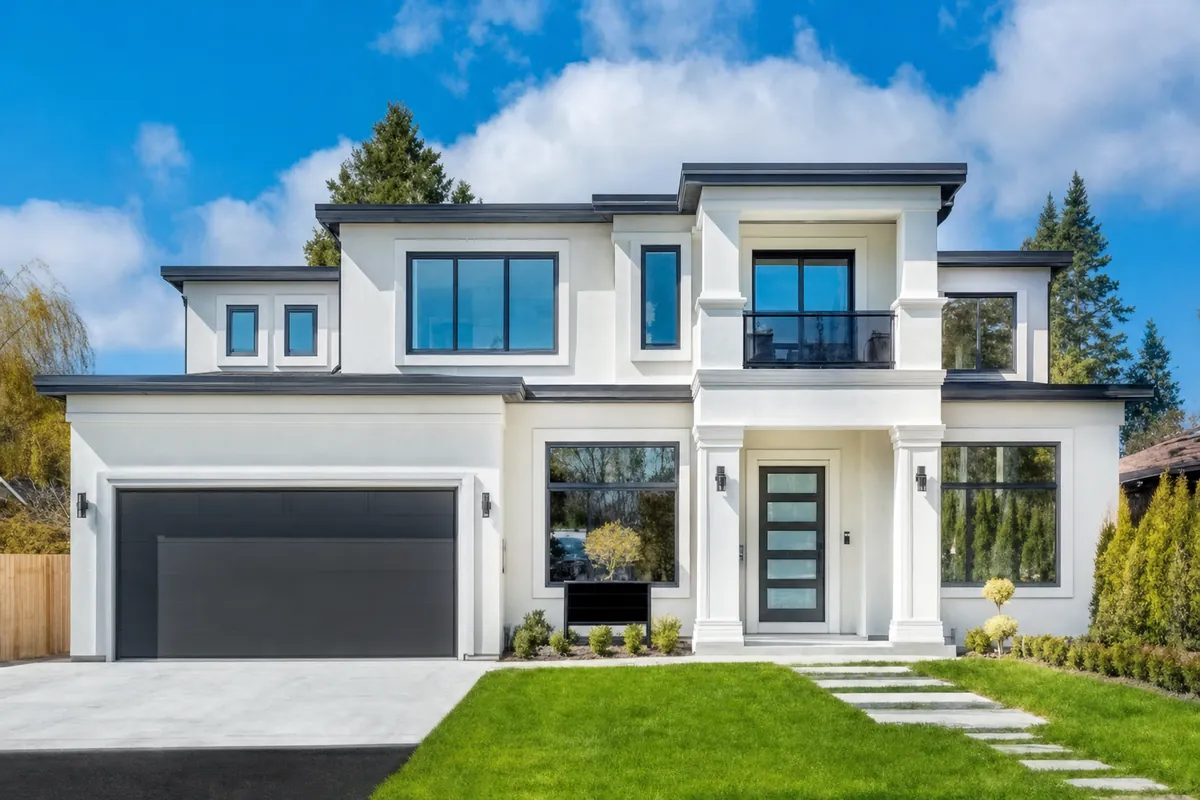
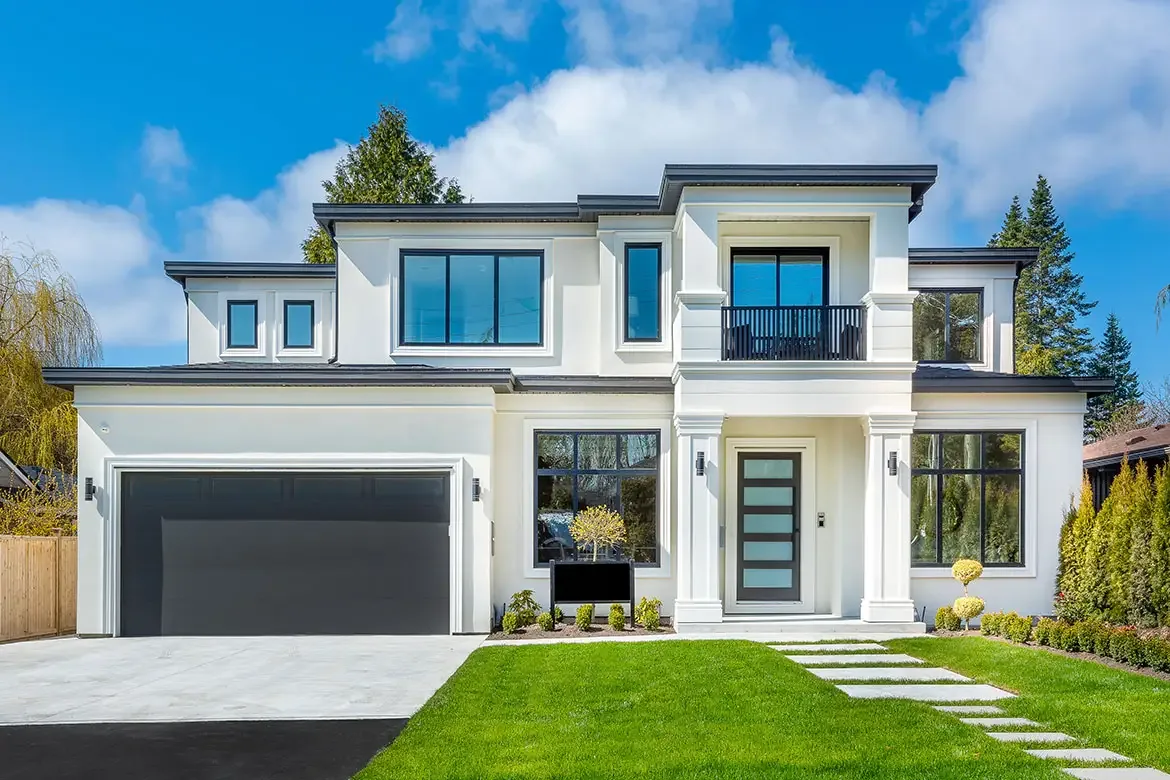
Add 26 Rose photos to the Additions & Exteriors gallery
Photos from the uploaded set (1600px WebP + 800px thumbnails). Left out:
Unsplash and licensed stock photos, the logo, a duplicate and letterboxed
phone screenshots. The gallery cover, the Room Additions service page header,
feature image and Recent Projects strip now use these photos, and the Full
House cover uses the original photo instead of the AI-upscaled crop.

Claude-Session: https://claude.ai/code/session_01VFDMhiSTKctj6KqFUXLGtK

diff --git a/src/data/galleries.ts b/src/data/galleries.ts
@@ -4,7 +4,7 @@
 export type Photo = { src: string; alt: string; width: number; height: number; thumb?: string };
 export type Gallery = { slug: string; title: string; label: string; blurb: string; cover: Photo; photos: Photo[] };
 
-const cover = (slug: string, alt: string): Photo => ({ src: `/img/portfolio/${slug}.webp`, alt, width: 1200, height: 800 });
+const cover = (slug: string, alt: string): Photo => ({ src: `/img/portfolio/${slug}.webp`, alt, width: 1170, height: 780 });
 
 
 // Kitchen photos from Rose projects (stock photos in the upload were left out). Each has a 1600px file and an -800 thumbnail.
@@ -156,6 +156,40 @@ const bathroomPhotos: Photo[] = bathroomFiles.map(([n, w, h], i) => ({
   alt: `Bathroom remodel by Rose Remodeling & Design, photo ${i + 1}`,
 }));
 
+// Addition / exterior photos from Rose projects (stock photos, a duplicate and letterboxed screenshots were left out).
+const exteriorFiles: [string, number, number][] = [
+  ['exterior-01', 1600, 1067],
+  ['exterior-02', 1600, 1067],
+  ['exterior-03', 1600, 1067],
+  ['exterior-04', 1600, 1067],
+  ['exterior-05', 1600, 1071],
+  ['exterior-06', 1600, 1067],
+  ['exterior-07', 1600, 1068],
+  ['exterior-08', 1600, 1067],
+  ['exterior-09', 1600, 1068],
+  ['exterior-10', 1600, 1068],
+  ['exterior-11', 1600, 1067],
+  ['exterior-12', 1600, 1067],
+  ['exterior-13', 1600, 1067],
+  ['exterior-14', 1600, 1067],
+  ['exterior-15', 980, 652],
+  ['exterior-16', 1170, 780],
+  ['exterior-17', 512, 384],
+  ['exterior-18', 426, 320],
+  ['exterior-19', 848, 636],
+  ['exterior-20', 819, 614],
+  ['exterior-21', 800, 800],
+  ['exterior-22', 1600, 1067],
+  ['exterior-23', 1600, 1067],
+  ['exterior-24', 1600, 1068],
+  ['exterior-25', 1600, 1067],
+  ['exterior-26', 1600, 1067],
+];
+const exteriorPhotos: Photo[] = exteriorFiles.map(([n, w, h], i) => ({
+  src: `/img/portfolio/exterior/${n}.webp`, thumb: `/img/portfolio/exterior/${n}-800.webp`, width: w, height: h,
+  alt: `Addition and exterior work by Rose Remodeling & Design, photo ${i + 1}`,
+}));
+
 export const galleries: Gallery[] = [
   {
     slug: 'kitchen',
@@ -178,8 +212,8 @@ export const galleries: Gallery[] = [
     title: 'Additions & Exteriors',
     label: 'Addition / Exterior',
     blurb: 'Room additions, new facades and outdoor living.',
-    cover: cover('addition', 'Modern home with a rear addition, wide glass walls, a wood deck and a lit pool at dusk'),
-    photos: [],
+    cover: { ...exteriorPhotos[0], alt: 'Backyard addition with a modern louvered pergola, outdoor living area and composite deck' },
+    photos: exteriorPhotos.slice(1),
   },
   {
     slug: 'full-house-remodel',
